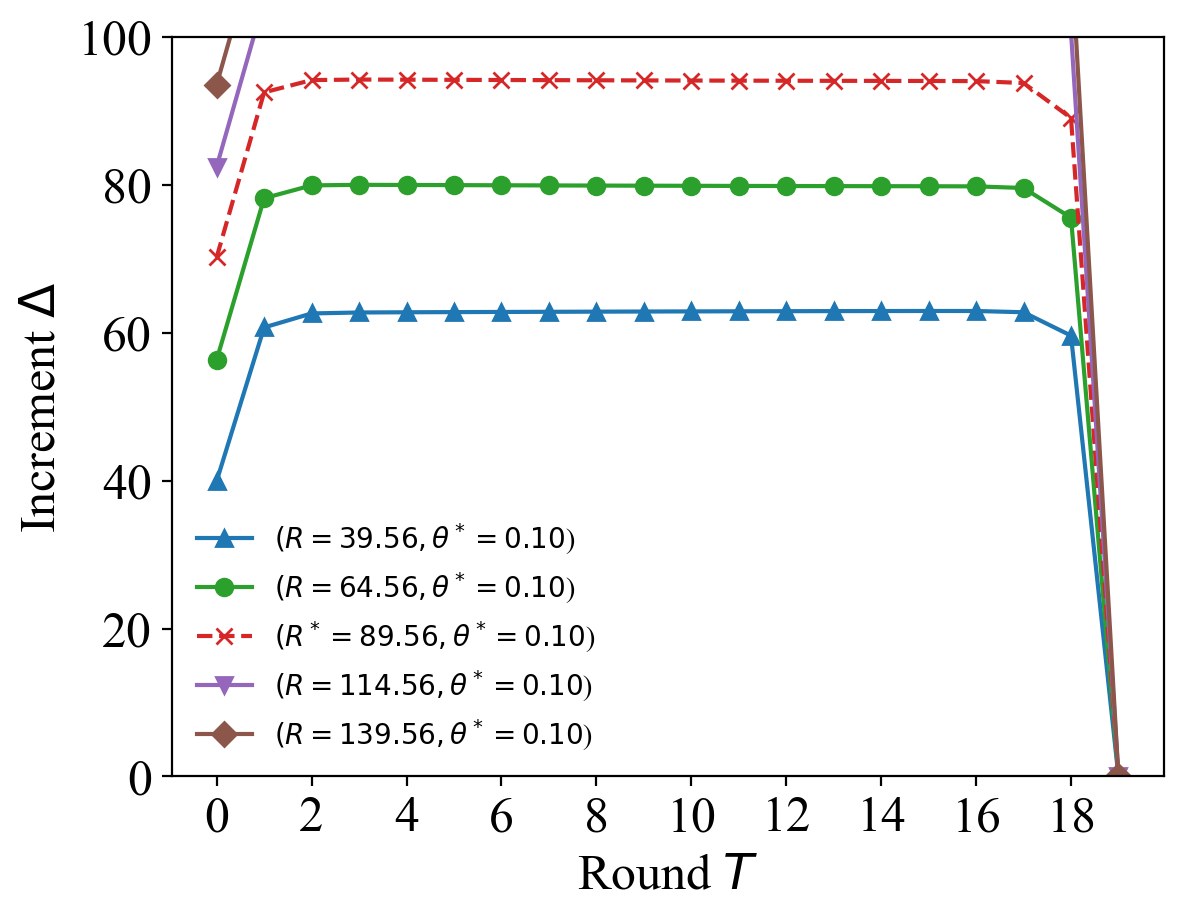
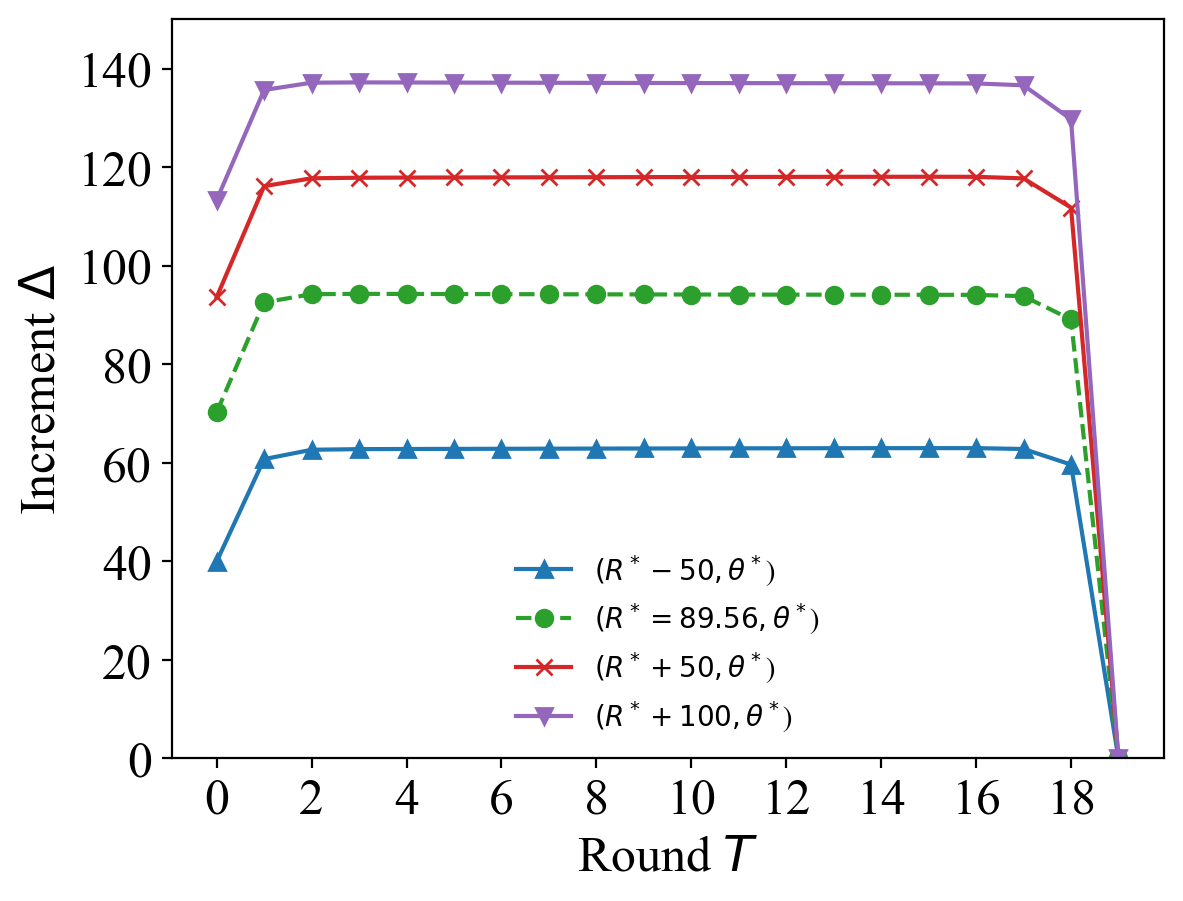
01.25,20round

diff --git a/alg/fedstream/server_copy_5_reward.py b/alg/fedstream/server_copy_5_reward.py
@@ -455,9 +455,9 @@ class Server(object):
 
         color = ['C0', 'C2', 'C3', 'C4', 'C5']
         marker = ['^', 'o', 'x', 'v', 'D', 's', '+', 'p', ',']
-        enum = [[-50, 0], [-25, 0], [0, 0], [25, 0], [50, 0]]
-        # sigma_dict = {1.25: 0.10, 1: 0.32, 0.75: 0.51, 0.475: 0.71, 0: 0.90}
-        # enum = [[0, -theta + 0.10], [0, -theta + 0.51], [0, -theta + 0.71], [0, -theta + 0.9]]
+        enum = [[-50, 0], [0, 0], [50, 0], [100, 0]]
+        # sigma_dict = {1.25: 89.56, 1: 76.12, 0.75: 61.62, 0.475: 42.40, 0: 10}
+        # enum = [[-reward + 89.56, 0], [-reward + 61.62, 0], [-reward + 42.40, 0], [-reward + 10, 0]]
         for idx in range(len(enum)):
             delta_com = enum[idx]
             new_reward = reward + delta_com[0]
@@ -485,17 +485,20 @@ class Server(object):
             for n in range(idx+1):
                 tmp_reward = reward + delta_reward_list[n]
                 if delta_reward_list[n] == 0:
-                    label = r'$(R^*={:.2f}, \theta^*={:.2f}$)'.format(tmp_reward, new_theta)
+                    label = r'$(R^*={:.2f}, \theta^*$)'.format(tmp_reward)
                     linestyle = '--'
+                elif delta_reward_list[n] < 0:
+                    label = r'$(R^*{}, \theta^*$)'.format(delta_reward_list[n])
+                    linestyle = '-'
                 else:
-                    label = r'$(R={:.2f}, \theta^*={:.2f}$)'.format(tmp_reward, new_theta)
+                    label = r'$(R^*+{}, \theta^*$)'.format(delta_reward_list[n])
                     linestyle = '-'
                 plt.plot(hist_increment_matrix[n], color=color[n], marker=marker[n], linestyle=linestyle, label=label)
                 plt.ylabel(r'Increment $\Delta$', fontdict={'family':'Times New Roman', 'size':18, 'weight':'bold'})
                 plt.xlabel(r'Round $T$', fontdict={'family':'Times New Roman', 'size':18, 'weight':'bold'})
                 plt.yticks(fontproperties = 'Times New Roman', size = 18)
                 plt.xticks(range(0, self.num_round, 2), fontproperties = 'Times New Roman', size = 18)
-                plt.ylim(0, 100)
+                plt.ylim(0, 150)
                 plt.legend(frameon=False, prop={'family':'Times New Roman', 'size':10, 'weight':'bold'})
                 plt.savefig(self.save_path_2_delta + '_{}.png'.format(self.sigma), dpi=200, bbox_inches='tight')
             plt.close()
@@ -503,10 +506,13 @@ class Server(object):
             for n in range(idx+1):
                 tmp_reward = reward + delta_reward_list[n]
                 if delta_reward_list[n] == 0:
-                    label = r'$(R^*={:.2f}, \theta^*={:.2f}$)'.format(tmp_reward, new_theta)
+                    label = r'$(R^*={:.2f}, \theta^*$)'.format(tmp_reward)
                     linestyle = '--'
+                elif delta_reward_list[n] < 0:
+                    label = r'$(R^*{}, \theta^*$)'.format(delta_reward_list[n])
+                    linestyle = '-'
                 else:
-                    label = r'$(R={:.2f}, \theta^*={:.2f}$)'.format(tmp_reward, new_theta)
+                    label = r'$(R^*+{}, \theta^*$)'.format(delta_reward_list[n])
                     linestyle = '-'
                 plt.plot(hist_data_matrix[n], color=color[n], marker=marker[n], linestyle=linestyle, label=label)
                 plt.ylabel(r'Datasize $D$', fontdict={'family':'Times New Roman', 'size':18, 'weight':'bold'})
@@ -521,10 +527,13 @@ class Server(object):
             for n in range(idx+1):
                 tmp_reward = reward + delta_reward_list[n]
                 if delta_reward_list[n] == 0:
-                    label = r'$(R^*={:.2f}, \theta^*={:.2f}$)'.format(tmp_reward, new_theta)
+                    label = r'$(R^*={:.2f}, \theta^*$)'.format(tmp_reward)
                     linestyle = '--'
+                elif delta_reward_list[n] < 0:
+                    label = r'$(R^*{}, \theta^*$)'.format(delta_reward_list[n])
+                    linestyle = '-'
                 else:
-                    label = r'$(R={:.2f}, \theta^*={:.2f}$)'.format(tmp_reward, new_theta)
+                    label = r'$(R^*+{}, \theta^*$)'.format(delta_reward_list[n])
                     linestyle = '-'
                 plt.plot(hist_stale_matrix[n], color=color[n], marker=marker[n], linestyle=linestyle, label=label)
                 plt.ylabel(r'Staleness $S$', fontdict={'family':'Times New Roman', 'size':18, 'weight':'bold'})
@@ -631,10 +640,13 @@ class Server(object):
                 if delta_reward_list[n] == 0:
                     label = r'$(R^*={:.2f}, \theta^*$)'.format(tmp_reward)
                     labels.append(label)
-                else:
-                    label = r'$(R^={:.2f}, \theta^*$)'.format(tmp_reward)
+                elif delta_reward_list[n] < 0:
+                    label = r'$(R^*{}, \theta^*$)'.format(delta_reward_list[n])
                     labels.append(label)
-            new_gamma = 5e-3
+                else:
+                    label = r'$(R^*+{}, \theta^*$)'.format(delta_reward_list[n])
+                    labels.append(label)                    
+            new_gamma = 1e-3
             cost_1_list = (1 - new_gamma) * (1 - np.array(hist_accuracy_list))
             cost_2_list = new_gamma * (np.array(delta_reward_list) + reward)
             plt.bar(x, cost_1_list, color='C0', width=width, label='loss')
@@ -651,11 +663,14 @@ class Server(object):
             for n in range(idx + 1):
                 tmp_reward = reward + delta_reward_list[n]
                 if delta_reward_list[n] == 0:
-                    label = r'$(R^*={:.2f}, \theta^*={:.2f}$)'.format(tmp_reward, new_theta)
+                    label = r'$(R^*={:.2f}, \theta^*$)'.format(tmp_reward)
                     linestyle = '--'
-                else:
-                    label = r'$(R={:.2f}, \theta^*={:.2f}$)'.format(tmp_reward, new_theta)
+                elif delta_reward_list[n] < 0:
+                    label = r'$(R^*{}, \theta^*$)'.format(delta_reward_list[n])
                     linestyle = '-'
+                else:
+                    label = r'$(R^*+{}, \theta^*$)'.format(delta_reward_list[n]) 
+                    linestyle = '-' 
                 plt.xticks(range(0, self.num_round, 2), fontproperties = 'Times New Roman', size = 18)
                 plt.yticks(fontproperties = 'Times New Roman', size = 18)
                 plt.plot(hist_loss_matrix[n], color=color[n], marker=marker[n], linestyle=linestyle, label=label)
@@ -668,11 +683,14 @@ class Server(object):
             for n in range(idx+1):
                 tmp_reward = reward + delta_reward_list[n]
                 if delta_reward_list[n] == 0:
-                    label = r'$(R^*={:.2f}, \theta^*={:.2f}$)'.format(tmp_reward, new_theta)
+                    label = r'$(R^*={:.2f}, \theta^*$)'.format(tmp_reward)
                     linestyle = '--'
-                else:
-                    label = r'$(R={:.2f}, \theta^*={:.2f}$)'.format(tmp_reward, new_theta)
+                elif delta_reward_list[n] < 0:
+                    label = r'$(R^*{}, \theta^*$)'.format(delta_reward_list[n])
                     linestyle = '-'
+                else:
+                    label = r'$(R^*+{}, \theta^*$)'.format(delta_reward_list[n]) 
+                    linestyle = '-' 
                 plt.xticks(range(0, self.num_round, 2), fontproperties = 'Times New Roman', size = 18)
                 plt.yticks(fontproperties = 'Times New Roman', size = 18)
                 plt.plot(hist_acc_matrix[n], color=color[n], marker=marker[n], linestyle=linestyle, label=label)

diff --git a/alg/fedstream/server_copy_5_theta.py b/alg/fedstream/server_copy_5_theta.py
@@ -39,14 +39,14 @@ args = {
     'save_path_3': '../../logs/fedstream/5_server_3',
     'save_path_4_loss': '../../logs/fedstream/5_server_4_loss',
     'save_path_4_acc': '../../logs/fedstream/5_server_4_acc',
-    'pre_estimate_path_1': '../../logs/fedstream/pre_estimate_5_1',
-    'pre_estimate_path_2': '../../logs/fedstream/pre_estimate_5_2',
+    'pre_estimate_path_1': '../../logs/fedstream/pre_estimate_5_3',
+    'pre_estimate_path_2': '../../logs/fedstream/pre_estimate_5_4',
     
     'delta': 1,
     'psi': 1,
     'alpha': 1e-3,
     'beta': 5e-6,
-    'sigma': 1.25,
+    'sigma': 0.75,
     
     'kappa_1': 1,
     'kappa_2': 1,
@@ -432,6 +432,7 @@ class Server(object):
         reward = result[0][0]
         theta = result[0][1]
         res = result[1][1]
+        exit(0)
         
         # 尝试所有的变种
         delta_reward_list = []
@@ -454,7 +455,8 @@ class Server(object):
         hist_acc_matrix = []
 
         color = ['C0', 'C2', 'C3', 'C4', 'C5']
-        marker = ['^', 'o', 'x', 'v', 'D', 's', '+', 'p', ',']
+        marker = ['^', 's', 'o', 'v', 'D', 's', '+', 'p', ',']
+        linestyle = [':', '-', ':', ':']
         # enum = [[0, 0], [0, 0.15], [0, 0.3], [0, 0.45], [0, 0.6]]
         sigma_dict = {1.25: 0.10, 1: 0.32, 0.75: 0.51, 0.475: 0.71, 0: 0.90}
         enum = [[0, -theta + 0.10], [0, -theta + 0.51], [0, -theta + 0.71], [0, -theta + 0.9]]
@@ -486,11 +488,9 @@ class Server(object):
             #     tmp_theta = min(max(0.05, theta + delta_theta_list[n]), 1)
             #     if tmp_theta == sigma_dict[self.sigma]:
             #         label = r'$(R^*={:.2f}, \theta^*={:.2f}$)'.format(new_reward, tmp_theta)
-            #         linestyle = '--'
             #     else:
             #         label = r'$(R^*={:.2f}, \theta={:.2f}$)'.format(new_reward, tmp_theta)
-            #         linestyle = '-'
-            #     plt.plot(hist_increment_matrix[n], color=color[n], marker=marker[n], linestyle=linestyle, label=label)
+            #     plt.plot(hist_increment_matrix[n], color=color[n], marker=marker[n], linestyle=linestyle[n], label=label)
             #     plt.ylabel(r'Increment $\Delta$', fontdict={'family':'Times New Roman', 'size':18, 'weight':'bold'})
             #     plt.xlabel(r'Round $T$', fontdict={'family':'Times New Roman', 'size':18, 'weight':'bold'})
             #     plt.yticks(fontproperties = 'Times New Roman', size = 18)
@@ -504,11 +504,9 @@ class Server(object):
             #     tmp_theta = min(max(0.05, theta + delta_theta_list[n]), 1)
             #     if tmp_theta == sigma_dict[self.sigma]:
             #         label = r'$(R^*={:.2f}, \theta^*={:.2f}$)'.format(new_reward, tmp_theta)
-            #         linestyle = '--'
             #     else:
             #         label = r'$(R^*={:.2f}, \theta={:.2f}$)'.format(new_reward, tmp_theta)
-            #         linestyle = '-'
-            #     plt.plot(hist_data_matrix[n], color=color[n], marker=marker[n], linestyle=linestyle, label=label)
+            #     plt.plot(hist_data_matrix[n], color=color[n], marker=marker[n], linestyle=linestyle[n], label=label)
             #     plt.ylabel(r'Datasize $D$', fontdict={'family':'Times New Roman', 'size':18, 'weight':'bold'})
             #     plt.xlabel(r'Round $T$', fontdict={'family':'Times New Roman', 'size':18, 'weight':'bold'})
             #     plt.yticks(fontproperties = 'Times New Roman', size = 18)
@@ -522,11 +520,9 @@ class Server(object):
             #     tmp_theta = min(max(0.05, theta + delta_theta_list[n]), 1)
             #     if tmp_theta == sigma_dict[self.sigma]:
             #         label = r'$(R^*={:.2f}, \theta^*={:.2f}$)'.format(new_reward, tmp_theta)
-            #         linestyle = '--'
             #     else:
             #         label = r'$(R^*={:.2f}, \theta={:.2f}$)'.format(new_reward, tmp_theta)
-            #         linestyle = '-'
-            #     plt.plot(hist_stale_matrix[n], color=color[n], marker=marker[n], linestyle=linestyle, label=label)
+            #     plt.plot(hist_stale_matrix[n], color=color[n], marker=marker[n], linestyle=linestyle[n], label=label)
             #     plt.ylabel(r'Staleness $S$', fontdict={'family':'Times New Roman', 'size':18, 'weight':'bold'})
             #     plt.xlabel(r'Round $T$', fontdict={'family':'Times New Roman', 'size':18, 'weight':'bold'})
             #     plt.yticks(fontproperties = 'Times New Roman', size = 18)
@@ -652,11 +648,9 @@ class Server(object):
                 tmp_theta = min(max(0.05, theta + delta_theta_list[n]), 1)
                 if tmp_theta == sigma_dict[self.sigma]:
                     label = r'$(R^*={:.2f}, \theta^*={:.2f}$)'.format(new_reward, tmp_theta)
-                    linestyle = '--'
                 else:
                     label = r'$(R^*={:.2f}, \theta={:.2f}$)'.format(new_reward, tmp_theta)
-                    linestyle = '-'
-                plt.plot(hist_loss_matrix[n], color=color[n], marker=marker[n], linestyle=linestyle, label=label)
+                plt.plot(hist_loss_matrix[n], color=color[n], marker=marker[n], linestyle=linestyle[n], label=label)
                 plt.ylabel('Loss', fontproperties = 'Times New Roman', size = 18)
                 plt.xlabel('Round $T$', fontproperties = 'Times New Roman', size = 18)
                 plt.yticks(fontproperties = 'Times New Roman', size = 18)
@@ -669,11 +663,9 @@ class Server(object):
                 tmp_theta = min(max(0.05, theta + delta_theta_list[n]), 1)
                 if tmp_theta == sigma_dict[self.sigma]:
                     label = r'$(R^*={:.2f}, \theta^*={:.2f}$)'.format(reward, tmp_theta)
-                    linestyle = '--'
                 else:
                     label = r'$(R^*={:.2f}, \theta={:.2f}$)'.format(reward, tmp_theta)
-                    linestyle = '-'
-                plt.plot(hist_acc_matrix[n], color=color[n], marker=marker[n], linestyle=linestyle, label=label)
+                plt.plot(hist_acc_matrix[n], color=color[n], marker=marker[n], linestyle=linestyle[n], label=label)
                 plt.ylabel('Accuracy', fontproperties = 'Times New Roman', size = 18)
                 plt.xlabel('Round $T$', fontproperties = 'Times New Roman', size = 18)
                 plt.yticks(fontproperties = 'Times New Roman', size = 18)

diff --git a/test.py b/test.py
@@ -13,11 +13,45 @@ import numpy as np
 from matplotlib import pyplot as plt
 import numpy as np
 
+from mpl_toolkits.mplot3d import Axes3D
+
+x = np.arange(0, 5, 0.1)
+y = x + (1/x)
+print(x)
+print(y)
+plt.plot(x, y)
+plt.savefig('test.png')
+exit(0)
+
+# 示例函数
+def example_function(input_scalar):
+    x = np.linspace(-5, 5, 10)
+    y = np.linspace(-5, 5, 10)
+    X, Y = np.meshgrid(x, y)
+    Z = np.sin(X**2 + Y**2) * input_scalar
+    return X, Y, Z
+
+# 输入标量
+input_scalar = 3
+X, Y, Z = example_function(input_scalar)
+
+# 绘制3D表面图
+fig = plt.figure()
+ax = fig.add_subplot(111, projection='3d')
+surf = ax.plot_surface(X, Y, Z, cmap='viridis')
+fig.colorbar(surf, label='Value')  # 添加颜色条
+ax.set_title(f"3D Surface Plot for Input {input_scalar}")
+ax.set_xlabel('X-axis')
+ax.set_ylabel('Y-axis')
+ax.set_zlabel('Value')
+plt.savefig('test.png')
+exit()
+
 reward_list = []
 theta_list = []
 # 0.25, 0.4, 0.41, 0.415, 0.42, 
-sigma_list = [0.425, 0.45, 0.75, 1, 1.25]
-poison_list = [0.05, 0.1, 0.3, 0.5, 0.9]
+sigma_list = [0.475, 0.75, 1, 1.25]
+poison_list = [0.07, 0.25, 0.5, 0.8]
 path = 'logs/fedstream/pre_estimate_5_2'
 for i in sigma_list:
     result = np.load(path + '_{}.npy'.format(i))

diff --git a/alg/fedstream/clients_copy.py b/alg/fedstream/clients_copy.py
@@ -164,10 +164,10 @@ class Client(object):
         if t == 0:
             datasize = int(datasize)
             self.init_data(t, k, datasize)
-            self.poison(0.8) # 本身的有毒性
+            self.poison(0.25) # 本身的有毒性
             # print('init_data_1:{}, init_data_2:{}, increment_next:{}'.format(datasize, len(self.data), increment_next))
         else:
-            self.poison(0.8) # 后续的有毒性
+            self.poison(0.25) # 后续的有毒性
             # print('origin', len(self.data))
             self.discard_data(theta)
             # print('decay', len(self.data))
